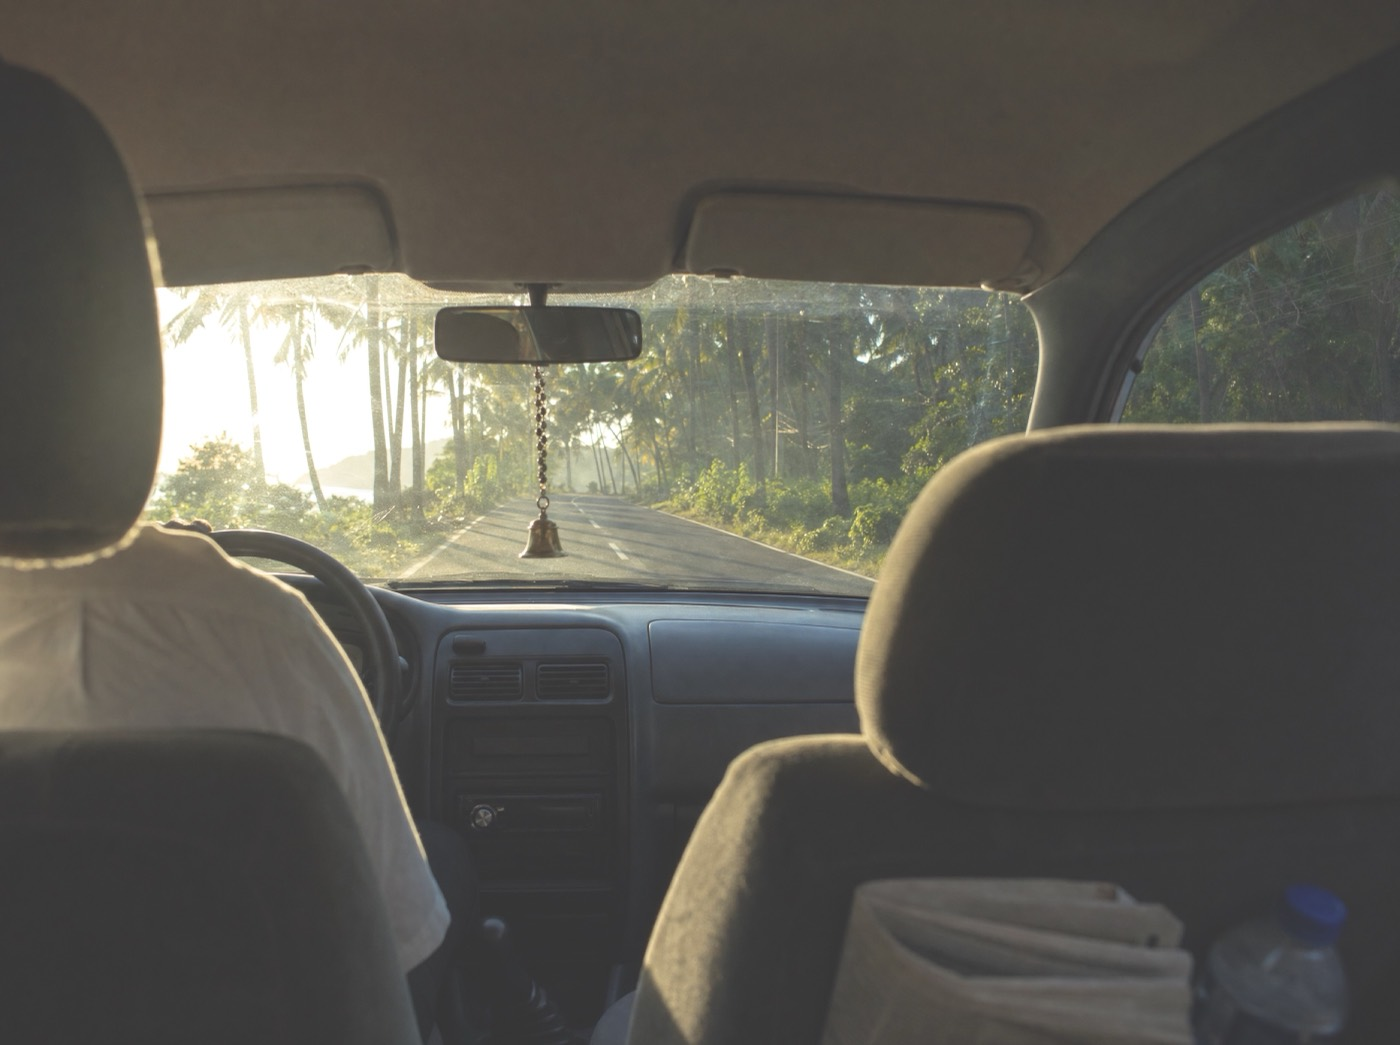
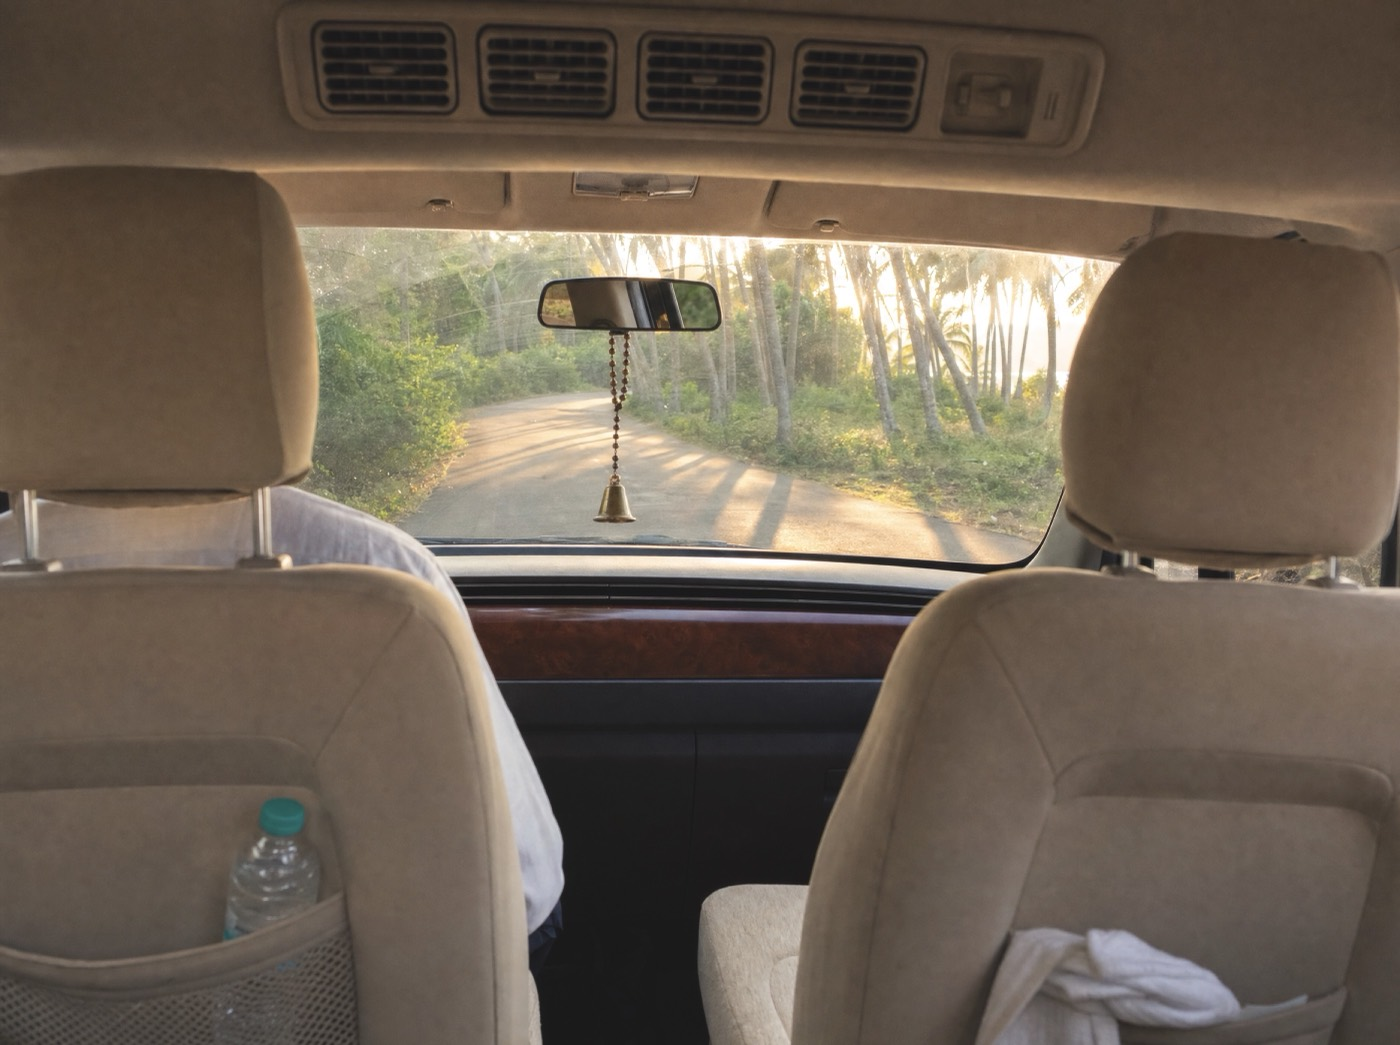
Home: Rides interior is now a seven-seater cabin
Same road, same light, but the cabin is the three-row people-carrier
that actually does this work on the coast: beige fabric, tall headrests,
woodgrain dash strip, and the roof-mounted rear air vents across the top
that give the type away.

Deliberately unbadged. The vehicle reads as what it is from the cabin
itself, and rendering a manufacturer's mark on a commercial site is a
different matter from photographing the car you actually drive - the
same reason the earlier car images lost their grille badge and plate.

diff --git a/docs/index.html b/docs/index.html
@@ -8,7 +8,7 @@
 <link rel="preconnect" href="https://fonts.googleapis.com">
 <link rel="preconnect" href="https://fonts.gstatic.com" crossorigin>
 <link href="https://fonts.googleapis.com/css2?family=Fraunces:ital,opsz,wght@0,9..144,300..800;1,9..144,300..700&family=Karla:ital,wght@0,300..700;1,300..600&display=swap" rel="stylesheet">
-<link rel="stylesheet" href="assets/css/styles.css?v=1789646310" />
+<link rel="stylesheet" href="assets/css/styles.css?v=1789646579" />
 <script>document.documentElement.classList.add('js');</script>
 </head>
 <body class="home">
@@ -47,8 +47,8 @@
 
 <section class="vhero">
   <picture class="vhero__pic" aria-hidden="true">
-    <source media="(max-width:819px)" srcset="assets/img/hero-portrait.jpg?v=1789646310" />
-    <img class="vhero__media" src="assets/img/hero.jpg?v=1789646310" alt=""
+    <source media="(max-width:819px)" srcset="assets/img/hero-portrait.jpg?v=1789646579" />
+    <img class="vhero__media" src="assets/img/hero.jpg?v=1789646579" alt=""
          fetchpriority="high" decoding="async" />
   </picture>
   <div class="vhero__scrim" aria-hidden="true"></div>
@@ -101,42 +101,42 @@
     <div class="mang__stage">
       <div class="mang__panel is-current" id="mang-coast" role="tabpanel" data-mangpanel>
         <figure class="mang__figure">
-          <img src="assets/img/tannirbhavi.jpg?v=1789646310" alt="Surf and casuarinas on the sand at Tannirbhavi beach, Mangalore" fetchpriority="high" />
+          <img src="assets/img/tannirbhavi.jpg?v=1789646579" alt="Surf and casuarinas on the sand at Tannirbhavi beach, Mangalore" fetchpriority="high" />
           <figcaption>Tannirbhavi &mdash; a ferry ride across the river, and the sand runs for miles</figcaption>
         </figure>
         <p class="mang__text">Panambur and Tannirbhavi are the ones everybody knows, and Tannirbhavi is best reached the old way, on the ferry across the Gurupura rather than the long road round. Sasihithlu, where two rivers meet the sea, and Someshwara, where the rocks begin, are quieter and better. Surathkal has the lighthouse; Ullal has the longest stretch of empty sand. Between June and September the sea here is not for swimming and nobody local pretends otherwise — but the light on a monsoon evening is the best of the year. The sunset is the same at all of them; the crowd is not.</p>
       </div>
       <div class="mang__panel" id="mang-kambala" role="tabpanel" data-mangpanel>
         <figure class="mang__figure">
-          <img src="assets/img/kambala.jpg?v=1789646310" alt="A pair of buffalo racing down a flooded paddy track at a kambala" loading="lazy" />
+          <img src="assets/img/kambala.jpg?v=1789646579" alt="A pair of buffalo racing down a flooded paddy track at a kambala" loading="lazy" />
           <figcaption>Kambala &mdash; paired buffalo raced down a flooded paddy track, through the season</figcaption>
         </figure>
         <p class="mang__text">From about November to March, pairs of buffalo are raced down flooded paddy tracks with a man running behind them holding the reins, and half a district turns out to watch. The good meets run through the night under lights, and there is nothing polite about them. Yakshagana runs in the same months — painted faces, drums, a story that starts at ten and finishes at dawn — and bhuta kola is still performed at village shrines for the village, not for visitors. None of it is ticketed and none of it is on a schedule you will find online. Ask us what is on while you are here and we will find out.</p>
       </div>
       <div class="mang__panel" id="mang-temples" role="tabpanel" data-mangpanel>
         <figure class="mang__figure">
-          <img src="assets/img/temples-wide.jpg?v=1789646310" alt="The lamp-lit stone colonnade of a coastal Karnataka temple at dawn" loading="lazy" />
+          <img src="assets/img/temples-wide.jpg?v=1789646579" alt="The lamp-lit stone colonnade of a coastal Karnataka temple at dawn" loading="lazy" />
           <figcaption>First light, before the queues</figcaption>
         </figure>
         <p class="mang__text">Kadri and Mangaladevi are inside the city and take an hour between them. Kateel sits on an island in the middle of the Nandini, which is worth the trip on its own. Dharmasthala, Kukke Subrahmanya and the Krishna Matha at Udupi are each a morning&rsquo;s drive, and each worth doing properly rather than in a rush. The difference between a good darshan and three hours in a queue is knowing which line to join, which seva to book ahead, and what time the doors actually close — which is most of what we do for you.</p>
       </div>
       <div class="mang__panel" id="mang-table" role="tabpanel" data-mangpanel>
         <figure class="mang__figure">
-          <img src="assets/img/food-wide.jpg?v=1789646310" alt="A coastal Karnataka meal of ghee roast, neer dosa and rava-fried fish" loading="lazy" />
+          <img src="assets/img/food-wide.jpg?v=1789646579" alt="A coastal Karnataka meal of ghee roast, neer dosa and rava-fried fish" loading="lazy" />
           <figcaption>Kori rotti, ghee roast, neer dosa, and a Gadbad after</figcaption>
         </figure>
         <p class="mang__text">Kori rotti, chicken ghee roast, neer dosa, pundi, fish fried in rava, and a Gadbad at the end of it. Five kitchens sit within a few streets of one another and none of them cook the same way: Bunt, Udupi, Konkani, Beary and Mangalorean Catholic. The last of those is where pork sorpotel and sannas come from, which surprises people who think they know Indian food. Go to the fish market at first light and you will see tomorrow&rsquo;s menu being argued over. We will tell you where to eat, and it is rarely the place with the sign.</p>
       </div>
       <div class="mang__panel" id="mang-ghats" role="tabpanel" data-mangpanel>
         <figure class="mang__figure">
-          <img src="assets/img/ghats-wide.jpg?v=1789646310" alt="A wet ghat road curving through the monsoon forest of the Western Ghats" loading="lazy" />
+          <img src="assets/img/ghats-wide.jpg?v=1789646579" alt="A wet ghat road curving through the monsoon forest of the Western Ghats" loading="lazy" />
           <figcaption>The ghat road in the monsoon</figcaption>
         </figure>
         <p class="mang__text">An hour inland the land stands up. Charmadi and Shiradi climb through thirty-odd hairpins into coffee and pepper country, and through the monsoon the waterfalls beside the road run hard enough to hear over the engine. Agumbe, up the ghat, takes some of the heaviest rain in the country and the sunsets from the top are worth the drive on a clear evening. Bring something warm; it is ten degrees cooler up there than it is on the coast, which nobody ever believes until they arrive.</p>
       </div>
       <div class="mang__panel" id="mang-town" role="tabpanel" data-mangpanel>
         <figure class="mang__figure">
-          <img src="assets/img/sultan-battery.jpg?v=1789646310" alt="The stone bastion of Sultan Battery on the Gurupura river at Boloor, Mangalore" loading="lazy" />
+          <img src="assets/img/sultan-battery.jpg?v=1789646579" alt="The stone bastion of Sultan Battery on the Gurupura river at Boloor, Mangalore" loading="lazy" />
           <figcaption>Sultan Battery &mdash; Tipu&rsquo;s watchtower at Boloor, on the Gurupura</figcaption>
         </figure>
         <p class="mang__text">The tile factories here roofed half of south India, which is why every old building from Bombay to Colombo wears the same terracotta. The Jain bastis at Moodabidri and the standing figure at Karkala are an easy half day inland. St Aloysius has a chapel painted floor to ceiling by an Italian Jesuit in the 1890s that almost nobody outside the city has heard of. And the old trade with Arabia and Portugal still shows in the street names, the doorways and the food, if somebody points it out.</p>
@@ -163,7 +163,7 @@
   <ol class="offer">
     <li class="offer__row reveal">
       <figure class="offer__media">
-        <img src="assets/img/cards/stays.jpg?v=1789646310" alt="A made-up bedroom in a managed homestay, shutters open to the garden" loading="lazy" />
+        <img src="assets/img/cards/stays.jpg?v=1789646579" alt="A made-up bedroom in a managed homestay, shutters open to the garden" loading="lazy" />
       </figure>
       <div class="offer__copy">
         <p class="offer__n">01</p>
@@ -180,7 +180,7 @@
     </li>
     <li class="offer__row reveal">
       <figure class="offer__media">
-        <img src="assets/img/cards/celebrations.jpg?v=1789646310" alt="A Mangalore house decorated for a family celebration" loading="lazy" />
+        <img src="assets/img/cards/celebrations.jpg?v=1789646579" alt="A Mangalore house decorated for a family celebration" loading="lazy" />
       </figure>
       <div class="offer__copy">
         <p class="offer__n">02</p>
@@ -197,7 +197,7 @@
     </li>
     <li class="offer__row reveal">
       <figure class="offer__media">
-        <img src="assets/img/cards/rides.jpg?v=1789646310" alt="The road ahead from the back seat of a car on the coast road" loading="lazy" />
+        <img src="assets/img/cards/rides.jpg?v=1789646579" alt="The coast road ahead, seen from the second row of a seven-seater" loading="lazy" />
       </figure>
       <div class="offer__copy">
         <p class="offer__n">03</p>
@@ -214,7 +214,7 @@
     </li>
     <li class="offer__row reveal">
       <figure class="offer__media">
-        <img src="assets/img/cards/temples.jpg?v=1789646310" alt="The gold gopuram of Kudroli Gokarnanatha temple, Mangalore, after rain" loading="lazy" />
+        <img src="assets/img/cards/temples.jpg?v=1789646579" alt="The gold gopuram of Kudroli Gokarnanatha temple, Mangalore, after rain" loading="lazy" />
       </figure>
       <div class="offer__copy">
         <p class="offer__n">04</p>
@@ -231,7 +231,7 @@
     </li>
     <li class="offer__row reveal">
       <figure class="offer__media">
-        <img src="assets/img/cards/hidden.jpg?v=1789646310" alt="A quiet local corner of coastal Mangalore" loading="lazy" />
+        <img src="assets/img/cards/hidden.jpg?v=1789646579" alt="A quiet local corner of coastal Mangalore" loading="lazy" />
       </figure>
       <div class="offer__copy">
         <p class="offer__n">05</p>
@@ -248,7 +248,7 @@
     </li>
     <li class="offer__row reveal">
       <figure class="offer__media">
-        <img src="assets/img/manpower.jpg?v=1789646310" alt="Service staff laying a long table before guests arrive" loading="lazy" />
+        <img src="assets/img/manpower.jpg?v=1789646579" alt="Service staff laying a long table before guests arrive" loading="lazy" />
       </figure>
       <div class="offer__copy">
         <p class="offer__n">06</p>
@@ -356,11 +356,11 @@
     </div>
 
     <div class="tsplit__visual">
-    <figure class="vplayer" data-vplayer style="--poster:url(assets/img/review-poster.jpg?v=1789646310)">
+    <figure class="vplayer" data-vplayer style="--poster:url(assets/img/review-poster.jpg?v=1789646579)">
     <video class="vplayer__video" playsinline preload="metadata"
-    poster="assets/img/review-poster.jpg?v=1789646310"
+    poster="assets/img/review-poster.jpg?v=1789646579"
     aria-label="A guest talking about their stay">
-    <source src="assets/video/review.mp4?v=1789646310" type="video/mp4" />
+    <source src="assets/video/review.mp4?v=1789646579" type="video/mp4" />
     </video>
 
   
@@ -459,6 +459,6 @@
     <p class="foot__legal">&copy; <span id="yr">2026</span> Shetty&rsquo;s Hospitality, Mangalore. A vision by Rithesh Shetty.</p>
   </div>
 </footer>
-<script src="assets/js/main.js?v=1789646310"></script>
+<script src="assets/js/main.js?v=1789646579"></script>
 </body>
 </html>

diff --git a/docs/celebrations.html b/docs/celebrations.html
@@ -8,7 +8,7 @@
 <link rel="preconnect" href="https://fonts.googleapis.com">
 <link rel="preconnect" href="https://fonts.gstatic.com" crossorigin>
 <link href="https://fonts.googleapis.com/css2?family=Fraunces:ital,opsz,wght@0,9..144,300..800;1,9..144,300..700&family=Karla:ital,wght@0,300..700;1,300..600&display=swap" rel="stylesheet">
-<link rel="stylesheet" href="assets/css/styles.css?v=1789646310" />
+<link rel="stylesheet" href="assets/css/styles.css?v=1789646579" />
 <script>document.documentElement.classList.add('js');</script>
 </head>
 <body class="page">
@@ -45,7 +45,7 @@
 </header>
 <main id="main">
 <section class="phero phero--overlay">
-  <figure class="phero__figure"><img src="assets/img/pages/celebrations.jpg?v=1789646310" alt="Banana leaves being laid for a family meal at home" /></figure>
+  <figure class="phero__figure"><img src="assets/img/pages/celebrations.jpg?v=1789646579" alt="Banana leaves being laid for a family meal at home" /></figure>
   <div class="phero__scrim" aria-hidden="true"></div>
   <div class="phero__in">
     <div class="phero__copy">
@@ -69,9 +69,9 @@
     </div>
     <figure class="split__media">
       <div class="ph">
-        <img src="assets/img/occasions/birthday.jpg?v=1789646310"
-             srcset="assets/img/occasions/birthday-700.jpg?v=1789646310 700w,
-                     assets/img/occasions/birthday.jpg?v=1789646310 1200w"
+        <img src="assets/img/occasions/birthday.jpg?v=1789646579"
+             srcset="assets/img/occasions/birthday-700.jpg?v=1789646579 700w,
+                     assets/img/occasions/birthday.jpg?v=1789646579 1200w"
              sizes="(max-width: 860px) 90vw, 42vw"
              alt="A birthday table laid on the verandah of a Mangalore house" loading="lazy" />
       </div>
@@ -87,9 +87,9 @@
     </div>
     <figure class="split__media">
       <div class="ph">
-        <img src="assets/img/occasions/reunion.jpg?v=1789646310"
-             srcset="assets/img/occasions/reunion-700.jpg?v=1789646310 700w,
-                     assets/img/occasions/reunion.jpg?v=1789646310 1200w"
+        <img src="assets/img/occasions/reunion.jpg?v=1789646579"
+             srcset="assets/img/occasions/reunion-700.jpg?v=1789646579 700w,
+                     assets/img/occasions/reunion.jpg?v=1789646579 1200w"
              sizes="(max-width: 860px) 90vw, 42vw"
              alt="A long family lunch laid out on the verandah of a coastal Karnataka house" loading="lazy" />
       </div>
@@ -105,9 +105,9 @@
     </div>
     <figure class="split__media">
       <div class="ph">
-        <img src="assets/img/occasions/offsite.jpg?v=1789646310"
-             srcset="assets/img/occasions/offsite-700.jpg?v=1789646310 700w,
-                     assets/img/occasions/offsite.jpg?v=1789646310 1200w"
+        <img src="assets/img/occasions/offsite.jpg?v=1789646579"
+             srcset="assets/img/occasions/offsite-700.jpg?v=1789646579 700w,
+                     assets/img/occasions/offsite.jpg?v=1789646579 1200w"
              sizes="(max-width: 860px) 90vw, 42vw"
              alt="A long table set for a private dinner on a lit verandah at dusk" loading="lazy" />
       </div>
@@ -230,6 +230,6 @@
     <p class="foot__legal">&copy; <span id="yr">2026</span> Shetty&rsquo;s Hospitality, Mangalore. A vision by Rithesh Shetty.</p>
   </div>
 </footer>
-<script src="assets/js/main.js?v=1789646310"></script>
+<script src="assets/js/main.js?v=1789646579"></script>
 </body>
 </html>

diff --git a/docs/stays.html b/docs/stays.html
@@ -8,7 +8,7 @@
 <link rel="preconnect" href="https://fonts.googleapis.com">
 <link rel="preconnect" href="https://fonts.gstatic.com" crossorigin>
 <link href="https://fonts.googleapis.com/css2?family=Fraunces:ital,opsz,wght@0,9..144,300..800;1,9..144,300..700&family=Karla:ital,wght@0,300..700;1,300..600&display=swap" rel="stylesheet">
-<link rel="stylesheet" href="assets/css/styles.css?v=1789646310" />
+<link rel="stylesheet" href="assets/css/styles.css?v=1789646579" />
 <script>document.documentElement.classList.add('js');</script>
 </head>
 <body class="page">
@@ -53,7 +53,7 @@
       <dl class="phero__meta"><div><dt>Stay length</dt><dd>One night to several months</dd></div><div><dt>Group size</dt><dd>2 to 20 guests</dd></div><div><dt>Ready</dt><dd>Cleaned before every arrival</dd></div></dl>
     </div>
   </div>
-  <figure class="phero__figure"><img src="assets/img/pages/stays.jpg?v=1789646310" alt="A bedroom in one of our managed homes" /></figure>
+  <figure class="phero__figure"><img src="assets/img/pages/stays.jpg?v=1789646579" alt="A bedroom in one of our managed homes" /></figure>
 </section>
 
 <section class="section">
@@ -67,7 +67,7 @@
   <div class="houses">
     <article class="house reveal">
       <figure class="house__media">
-        <img src="assets/img/houses/house-1.jpg?v=1789646310" alt="" loading="lazy" />
+        <img src="assets/img/houses/house-1.jpg?v=1789646579" alt="" loading="lazy" />
       </figure>
       <p class="house__kind">A whole house</p>
       <h3 class="house__name">House one &mdash; name to follow</h3>
@@ -80,7 +80,7 @@
 
     <article class="house reveal">
       <figure class="house__media">
-        <img src="assets/img/houses/house-2.jpg?v=1789646310" alt="" loading="lazy" />
+        <img src="assets/img/houses/house-2.jpg?v=1789646579" alt="" loading="lazy" />
       </figure>
       <p class="house__kind">An apartment</p>
       <h3 class="house__name">House two &mdash; name to follow</h3>
@@ -93,7 +93,7 @@
 
     <article class="house reveal">
       <figure class="house__media">
-        <img src="assets/img/houses/house-3.jpg?v=1789646310" alt="" loading="lazy" />
+        <img src="assets/img/houses/house-3.jpg?v=1789646579" alt="" loading="lazy" />
       </figure>
       <p class="house__kind">A sea-facing house</p>
       <h3 class="house__name">House three &mdash; name to follow</h3>
@@ -120,7 +120,7 @@
     </div>
 
     <figure class="bento__cell bento__cell--img">
-      <img src="assets/img/pages/stays.jpg?v=1789646310" alt="A bedroom in one of our managed homes" loading="lazy" />
+      <img src="assets/img/pages/stays.jpg?v=1789646579" alt="A bedroom in one of our managed homes" loading="lazy" />
     </figure>
 
     <div class="bento__cell">
@@ -171,7 +171,7 @@
         <a class="link link--light" href="contact.html">Ask about a build <span aria-hidden="true">&rarr;</span></a>
       </div>
       <figure class="cone__media reveal">
-        <img src="assets/img/cone-houses.jpg?v=1789646310"
+        <img src="assets/img/cone-houses.jpg?v=1789646579"
              alt="A-frame cone house cabins in a palm clearing" loading="lazy" />
       </figure>
     </div>
@@ -260,6 +260,6 @@
     <p class="foot__legal">&copy; <span id="yr">2026</span> Shetty&rsquo;s Hospitality, Mangalore. A vision by Rithesh Shetty.</p>
   </div>
 </footer>
-<script src="assets/js/main.js?v=1789646310"></script>
+<script src="assets/js/main.js?v=1789646579"></script>
 </body>
 </html>

diff --git a/docs/about.html b/docs/about.html
@@ -8,7 +8,7 @@
 <link rel="preconnect" href="https://fonts.googleapis.com">
 <link rel="preconnect" href="https://fonts.gstatic.com" crossorigin>
 <link href="https://fonts.googleapis.com/css2?family=Fraunces:ital,opsz,wght@0,9..144,300..800;1,9..144,300..700&family=Karla:ital,wght@0,300..700;1,300..600&display=swap" rel="stylesheet">
-<link rel="stylesheet" href="assets/css/styles.css?v=1789646310" />
+<link rel="stylesheet" href="assets/css/styles.css?v=1789646579" />
 <script>document.documentElement.classList.add('js');</script>
 </head>
 <body class="page">
@@ -52,7 +52,7 @@
       <p class="lede">Mangalore&rsquo;s hospitality is fragmented. Good people, working separately, with nobody joining them up. Shetty&rsquo;s Hospitality is the join.</p>
       <dl class="phero__meta"><div><dt>Founded by</dt><dd>Rithesh Shetty</dd></div><div><dt>Based in</dt><dd>Mangalore</dd></div><div><dt>Model</dt><dd>Aggregator and operator</dd></div></dl>
     </div>
-    <figure class="phero__figure"><img src="assets/img/pages/about.jpg?v=1789646310" alt="House keys and a hand bell on a table by the door" /></figure>
+    <figure class="phero__figure"><img src="assets/img/pages/about.jpg?v=1789646579" alt="House keys and a hand bell on a table by the door" /></figure>
   </div>
   <div class="ridge" aria-hidden="true"></div>
 </section>
@@ -169,6 +169,6 @@
     <p class="foot__legal">&copy; <span id="yr">2026</span> Shetty&rsquo;s Hospitality, Mangalore. A vision by Rithesh Shetty.</p>
   </div>
 </footer>
-<script src="assets/js/main.js?v=1789646310"></script>
+<script src="assets/js/main.js?v=1789646579"></script>
 </body>
 </html>

diff --git a/docs/journeys.html b/docs/journeys.html
@@ -8,7 +8,7 @@
 <link rel="preconnect" href="https://fonts.googleapis.com">
 <link rel="preconnect" href="https://fonts.gstatic.com" crossorigin>
 <link href="https://fonts.googleapis.com/css2?family=Fraunces:ital,opsz,wght@0,9..144,300..800;1,9..144,300..700&family=Karla:ital,wght@0,300..700;1,300..600&display=swap" rel="stylesheet">
-<link rel="stylesheet" href="assets/css/styles.css?v=1789646310" />
+<link rel="stylesheet" href="assets/css/styles.css?v=1789646579" />
 <script>document.documentElement.classList.add('js');</script>
 </head>
 <body class="page">
@@ -46,7 +46,7 @@
 <main id="main">
 <section class="phero phero--mirror">
   <div class="phero__in">
-    <figure class="phero__figure"><img src="assets/img/pages/journeys.jpg?v=1789646310" alt="Stone steps up to a coastal Karnataka temple at first light" /></figure>
+    <figure class="phero__figure"><img src="assets/img/pages/journeys.jpg?v=1789646579" alt="Stone steps up to a coastal Karnataka temple at first light" /></figure>
     <div class="phero__copy">
       <p class="eyebrow">Journeys</p>
       <h1>Everything that happens<br>outside the house.</h1>
@@ -173,6 +173,6 @@
     <p class="foot__legal">&copy; <span id="yr">2026</span> Shetty&rsquo;s Hospitality, Mangalore. A vision by Rithesh Shetty.</p>
   </div>
 </footer>
-<script src="assets/js/main.js?v=1789646310"></script>
+<script src="assets/js/main.js?v=1789646579"></script>
 </body>
 </html>

diff --git a/docs/contact.html b/docs/contact.html
@@ -8,7 +8,7 @@
 <link rel="preconnect" href="https://fonts.googleapis.com">
 <link rel="preconnect" href="https://fonts.gstatic.com" crossorigin>
 <link href="https://fonts.googleapis.com/css2?family=Fraunces:ital,opsz,wght@0,9..144,300..800;1,9..144,300..700&family=Karla:ital,wght@0,300..700;1,300..600&display=swap" rel="stylesheet">
-<link rel="stylesheet" href="assets/css/styles.css?v=1789646310" />
+<link rel="stylesheet" href="assets/css/styles.css?v=1789646579" />
 <script>document.documentElement.classList.add('js');</script>
 </head>
 <body class="page">
@@ -135,6 +135,6 @@
     <p class="foot__legal">&copy; <span id="yr">2026</span> Shetty&rsquo;s Hospitality, Mangalore. A vision by Rithesh Shetty.</p>
   </div>
 </footer>
-<script src="assets/js/main.js?v=1789646310"></script>
+<script src="assets/js/main.js?v=1789646579"></script>
 </body>
 </html>

diff --git a/build_site.py b/build_site.py
@@ -354,7 +354,7 @@ body=f"""
     </li>
     <li class="offer__row reveal">
       <figure class="offer__media">
-        <img src="assets/img/cards/rides.jpg?v={BUILD_ID}" alt="The road ahead from the back seat of a car on the coast road" loading="lazy" />
+        <img src="assets/img/cards/rides.jpg?v={BUILD_ID}" alt="The coast road ahead, seen from the second row of a seven-seater" loading="lazy" />
       </figure>
       <div class="offer__copy">
         <p class="offer__n">03</p>
